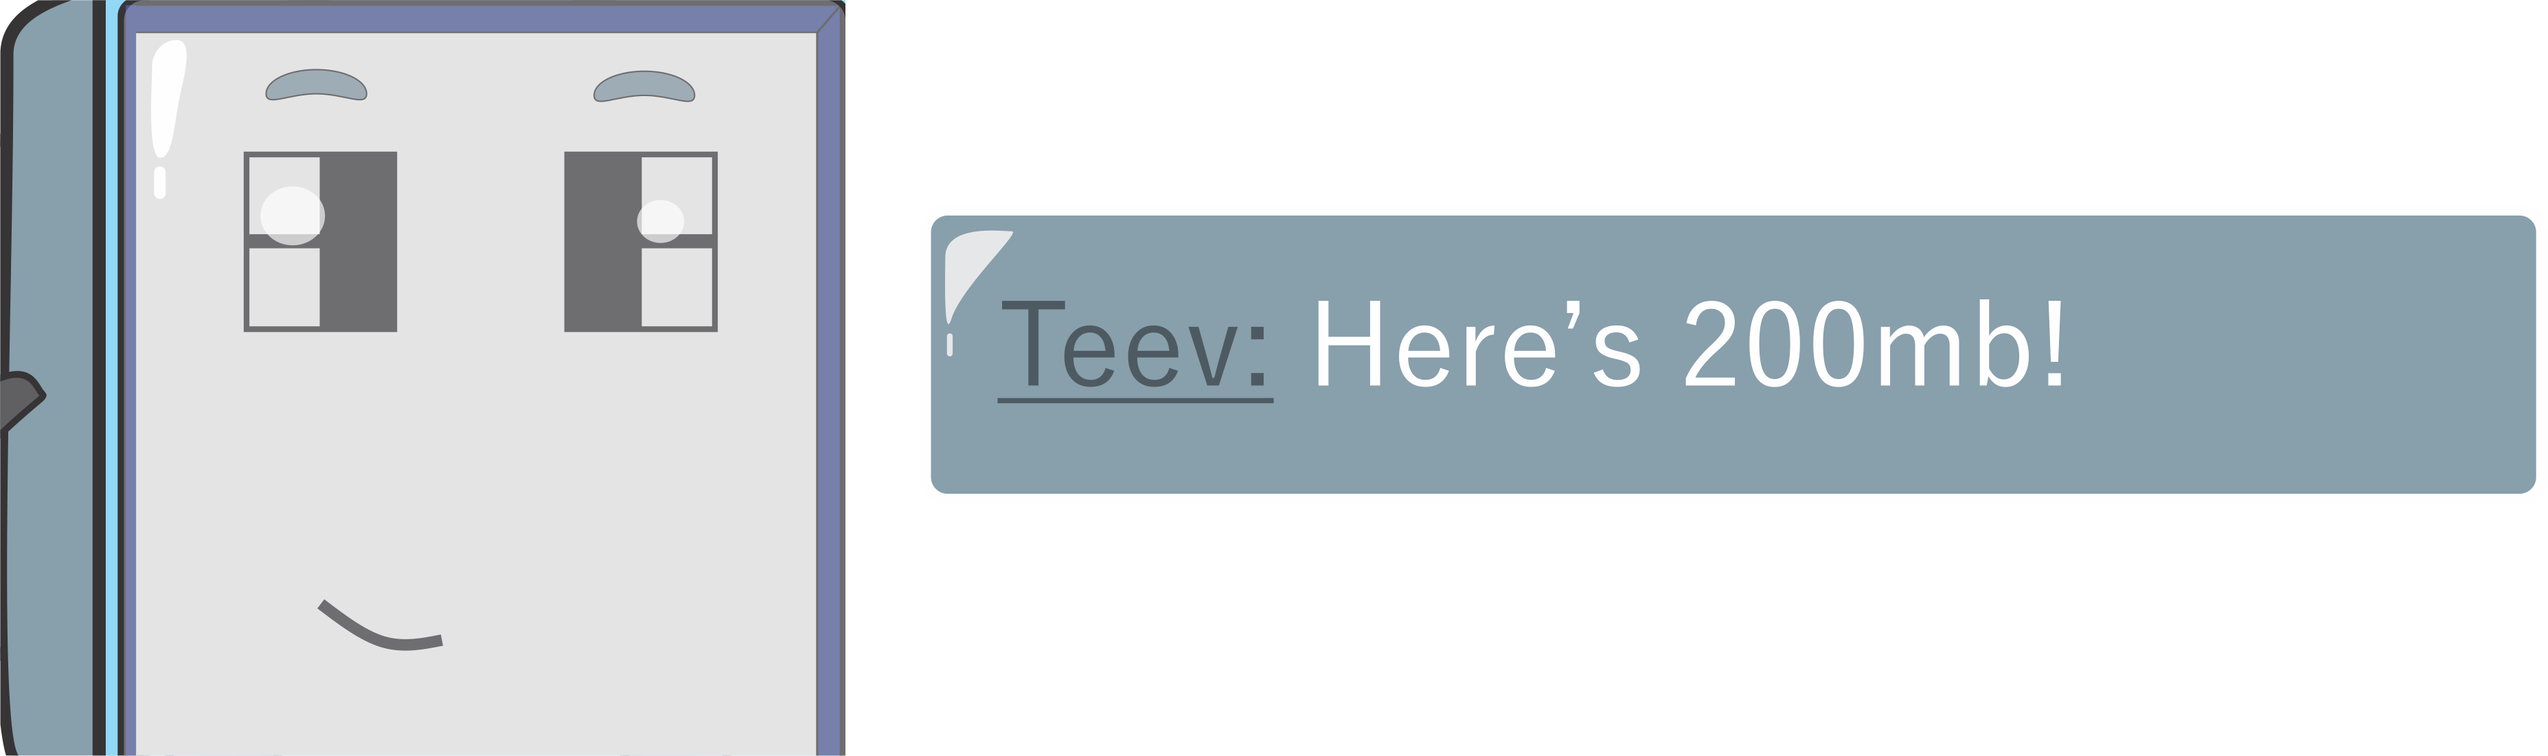
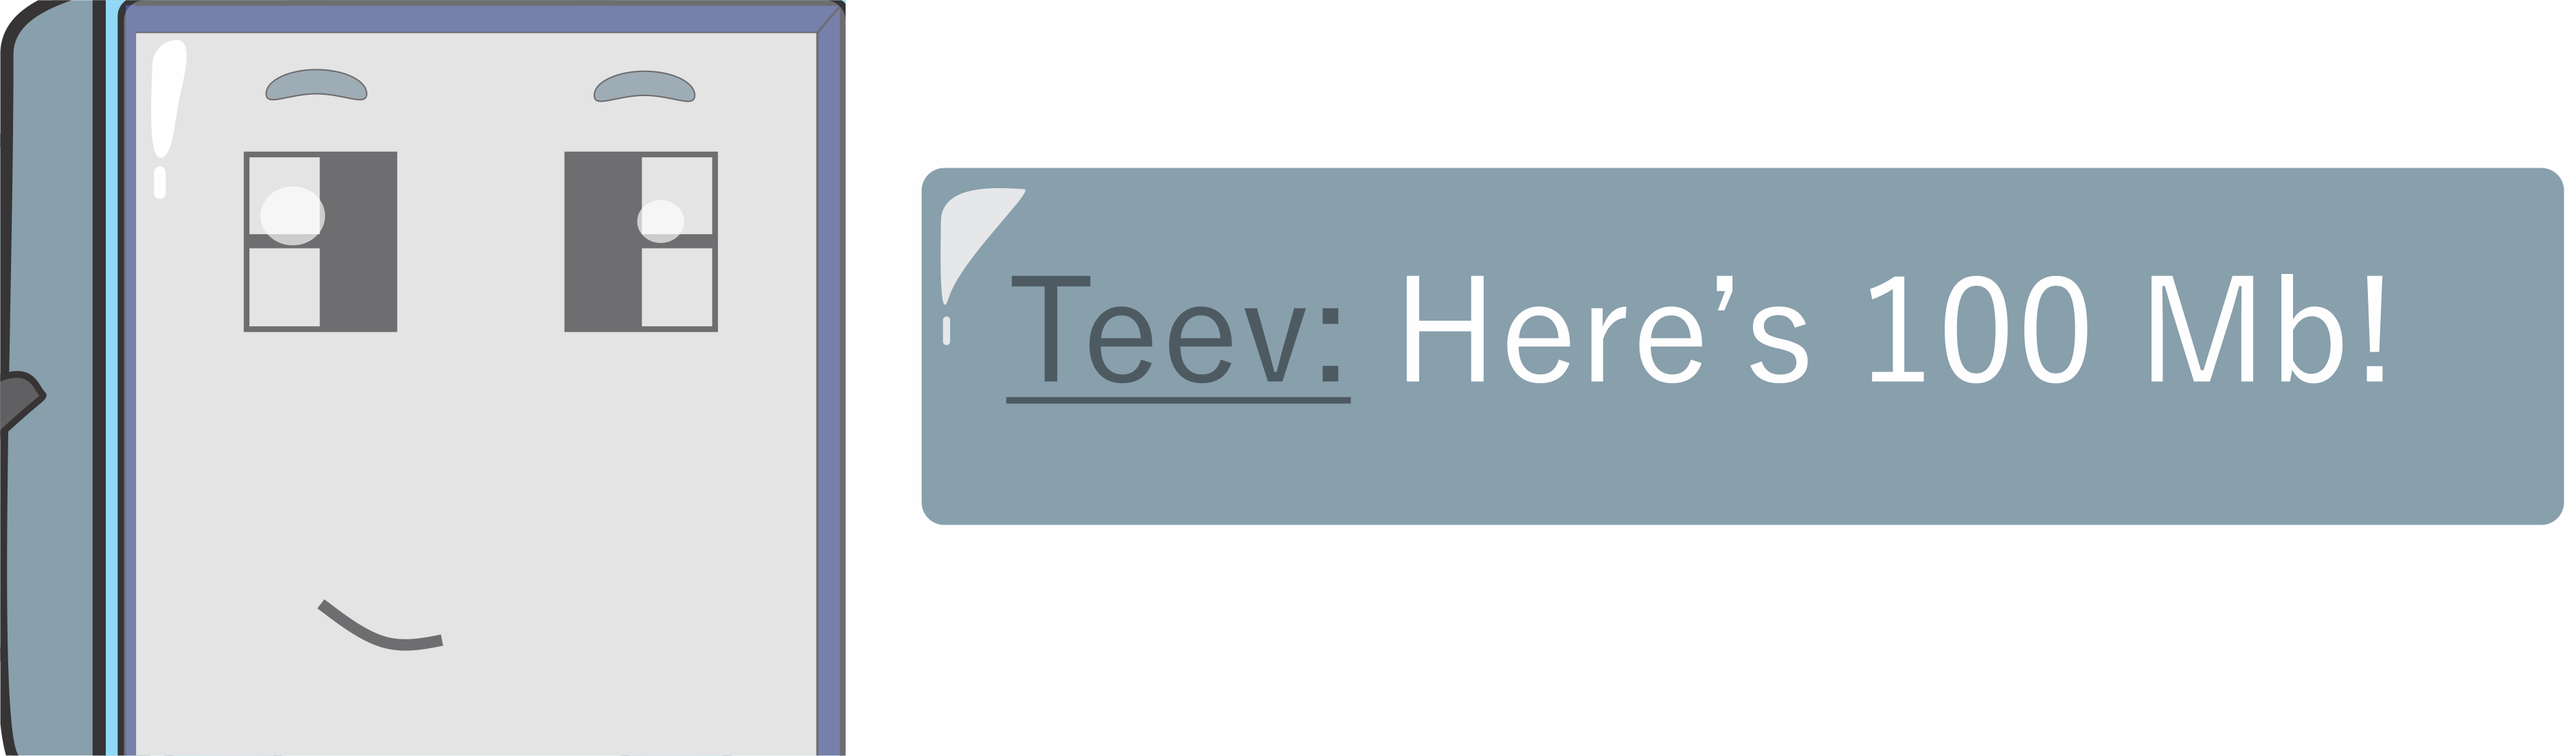
Fixed Server Dialog

diff --git a/Assets/Scripts/NPCServer2.cs b/Assets/Scripts/NPCServer2.cs
@@ -46,10 +46,9 @@ public class NPCServer2 : MonoBehaviour
         {
             entirePlayer.gameObject.SetActive(false);
 
-            if (Input.GetButtonDown("Jump") && levelManagerScript.memCount < 100)
+            if (Input.GetButtonDown("Jump") && levelManagerScript.memCount < 100 && talkIndex == 0)
             {
-                dialogUI.gameObject.SetActive(false);
-                isTalking = false;
+                Close();
             }
 
             if (Input.GetButtonDown("Jump") && levelManagerScript.memCount >= 100 && talkIndex ==0)
@@ -134,13 +133,14 @@ public class NPCServer2 : MonoBehaviour
         serverParts[0].gameObject.SetActive(true);
         isTalking = true;
 
-        if(levelManagerScript.memCount < 200)
+        if (levelManagerScript.memCount < 100)
         {
-           StartCoroutine(TeevIE());
+            StartCoroutine(TeevIE());
         }
 
-        if(levelManagerScript.memCount >= 200)
+        if (levelManagerScript.memCount >= 100)
         {
+            teevParts[0].gameObject.SetActive(false);
             teevParts[1].gameObject.SetActive(true);
             isTalking = true;
         }
@@ -149,8 +149,26 @@ public class NPCServer2 : MonoBehaviour
     public IEnumerator TeevIE()
     {
 
-        yield return new WaitForSeconds(1.1f);
+        yield return new WaitForSeconds(.3f);
         teevParts[0].gameObject.SetActive(true);
+
+        //isTalking = false;
+        //Close();
+    }
+
+    public IEnumerator ServerSecondIE()
+    {
+
+        yield return new WaitForSeconds(.1f);
+        talkIndex = 1;
+
+    }
+
+    public IEnumerator ServerThirdIE()
+    {
+
+        yield return new WaitForSeconds(.1f);
+        talkIndex = 2;
 
     }
 
@@ -162,36 +180,6 @@ public class NPCServer2 : MonoBehaviour
         talkIndex = 3;
     }
 
-    public IEnumerator TeevThirdIE()
-    {
-
-        yield return new WaitForSeconds(.1f);
-        teevParts[3].gameObject.SetActive(true);
-        talkIndex = 5;
-    }
-
-    public IEnumerator TeevFourthIE()
-    {
-        yield return new WaitForSeconds(.1f);
-        teevParts[4].gameObject.SetActive(true);
-        talkIndex = 7;
-    }
-
-    public IEnumerator ServerSecondIE()
-    {
-
-        yield return new WaitForSeconds(.1f);
-        talkIndex = 1;
-
-    }
-    public IEnumerator ServerThirdIE()
-    {
-
-        yield return new WaitForSeconds(.1f);
-        talkIndex = 2;
-
-    }
-
     public IEnumerator ServerFourthIE()
     {
 
@@ -200,12 +188,26 @@ public class NPCServer2 : MonoBehaviour
 
     }
 
+    public IEnumerator TeevThirdIE()
+    {
+
+        yield return new WaitForSeconds(.1f);
+        teevParts[3].gameObject.SetActive(true);
+        talkIndex = 5;
+    }
+
     public IEnumerator ServerFithIE()
     {
 
         yield return new WaitForSeconds(.1f);
         talkIndex = 6;
 
+    }
+    public IEnumerator TeevFourthIE()
+    {
+        yield return new WaitForSeconds(.1f);
+        teevParts[4].gameObject.SetActive(true);
+        talkIndex = 7;
     }
 
     public IEnumerator ServerSixthIE()
@@ -227,15 +229,12 @@ public class NPCServer2 : MonoBehaviour
         memoryGiveFX.Play();
         Instantiate(MemorySplosion, dialogUI.transform.position, dialogUI.transform.rotation);
         serverParts[1].gameObject.SetActive(true);
+        StartCoroutine(ServerSecondIE());
     }
 
     public void Close()
     {
-        //teevParts[1].gameObject.SetActive(true);
-        //buttonHighlight1.gameObject.SetActive(true);
-        //buttonHighlight2.gameObject.SetActive(true);
         dialogUI.gameObject.SetActive(false);
-        serverParts[0].gameObject.SetActive(false);
         isTalking = false;
 
     }

diff --git a/Assets/Scripts/NPCServer.cs b/Assets/Scripts/NPCServer.cs
@@ -38,15 +38,15 @@ public class NPCServer : MonoBehaviour
     // Update is called once per frame
     void Update()
     {
-        //if (hasMission)
-        //{
-        //    missionMessage.gameObject.SetActive(true);
+        if (hasMission)
+        {
+            missionMessage.gameObject.SetActive(true);
 
-        //}
-        //else
-        //{
-        //    missionMessage.gameObject.SetActive(false);
-        //}
+        }
+        else
+        {
+            missionMessage.gameObject.SetActive(false);
+        }
 
         if (hasTalkedOnce == 1)
         {
@@ -78,10 +78,10 @@ public class NPCServer : MonoBehaviour
 
             if (Input.GetButtonDown("Jump") && talkIndex == 3)
             {
-                serverParts[1].gameObject.SetActive(false);
-                serverParts[2].gameObject.SetActive(true);
+                teevParts[0].gameObject.SetActive(false);
+                teevParts[1].gameObject.SetActive(true);
+                StartCoroutine(TeevSecondIE());
 
-                StartCoroutine(ServerSecondIE());
                 //teevPartSelect = 1;
                 //nextButton.gameObject.SetActive(true);
             }
@@ -92,6 +92,7 @@ public class NPCServer : MonoBehaviour
                 //teevPartSelect = 1;
                 //nextButton.gameObject.SetActive(true);
             }
+
         }
         else
         {
@@ -115,13 +116,21 @@ public class NPCServer : MonoBehaviour
 
     }
 
-    public IEnumerator ServerSecondIE()
+    public IEnumerator TeevSecondIE()
     {
 
         yield return new WaitForSeconds(.1f);
         talkIndex = 4;
 
     }
+
+    //public IEnumerator ServerSecondIE()
+    //{
+
+    //    yield return new WaitForSeconds(.1f);
+    //    talkIndex = 5;
+
+    //}
 
     public void OnTriggerEnter2D(Collider2D other)
     {
@@ -149,10 +158,8 @@ public class NPCServer : MonoBehaviour
 
     public void CloseButton()
     {
-        StartCoroutine(CloseIE());
-
         isTalking = false;
-        //entirePlayer.gameObject.SetActive(true);
+        StartCoroutine(CloseIE());
 
     }
 
